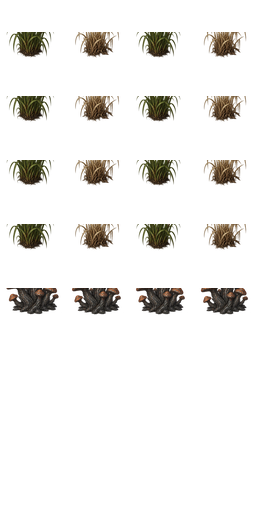
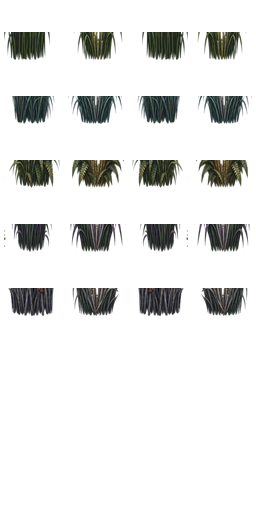
Unify door states and distinguish tall, rustled and trampled vegetation

diff --git a/tools/painted/terrain_details.py b/tools/painted/terrain_details.py
@@ -1,0 +1,95 @@
+"""Coherent door families and three vegetation states in existing atlas slots."""
+from pathlib import Path
+from functools import lru_cache
+import numpy as np
+from PIL import Image
+
+HERE=Path(__file__).resolve().parent
+REGIONS=['sewers','prison','caves','city','halls']
+
+
+@lru_cache(None)
+def sheet(name, rows):
+    image=Image.open(HERE/'sources'/name).convert('RGBA')
+    if image.getchannel('A').getextrema()[0]!=0:
+        raise ValueError(name+': transparent source required')
+    return [image.crop((round(x*image.width/4),round(y*image.height/rows),
+                        round((x+1)*image.width/4),round((y+1)*image.height/rows)))
+            for y in range(rows) for x in range(4)]
+
+
+def sized(image, size):
+    box=image.getchannel('A').point(lambda a:255 if a>=16 else 0).getbbox()
+    if box is None:raise ValueError('Empty terrain detail')
+    pixels=np.array(image.crop(box).resize(size,Image.Resampling.LANCZOS))
+    pixels[pixels[:,:,3]<8]=0
+    return Image.fromarray(pixels)
+
+
+def split(source, floor, size, foot=124):
+    whole=Image.new('RGBA',(64,128))
+    whole.paste(floor,(0,64))
+    sprite=sized(source,size)
+    whole.alpha_composite(sprite,((64-size[0])//2,foot-size[1]))
+    return whole.crop((0,64,64,128)),whole.crop((0,0,64,64))
+
+
+def patch(region, atlas, old, floor, cap, features, raised):
+    from pack import put,cell,surface_mask
+    stage=REGIONS.index(region)
+    clear=Image.new('RGBA',(64,64))
+    plants=sheet('vegetation-states.png',4)[stage*3:stage*3+3]
+    # GRASS is already the game's trampled state. Keep paving exposed beneath
+    # low clippings; HIGH_GRASS and FURROWED_GRASS retain their gameplay flags.
+    for alt in range(2):
+        source=plants[2] if alt==0 else plants[2].transpose(Image.Transpose.FLIP_LEFT_RIGHT)
+        low,_=split(source,clear,(60,20))
+        put(atlas,2+6*alt,floor)
+        put(features,132+16*stage+alt,low)
+        for state in range(2):
+            source=plants[state] if alt==0 else plants[state].transpose(Image.Transpose.FLIP_LEFT_RIGHT)
+            size=(56,92) if state==0 else (60,78)
+            low,high=split(source,clear,size)
+            put(atlas,122+state+3*alt,floor)
+            put(atlas,234+state+3*alt,high)
+            put(features,128+16*stage+2*state+alt,low)
+            front=Image.new('RGBA',(64,64))
+            front.paste(low.crop((0,32,64,64)),(0,32))
+            put(raised,stage*4+state+2*alt,front)
+            flat,_=split(source,floor,(52,52))
+            put(atlas,66+state+3*alt,flat)
+
+    doors=sheet('door-states.png',2)
+    for state in range(4):
+        low,high=split(doors[state],floor,(56,88),120)
+        put(atlas,112+state,low)
+        if state!=2:put(atlas,224+(state if state<2 else 2),high)
+        flat,_=split(doors[state],floor,(36,56),124)
+        put(atlas,56+state,flat)
+    # Side-facing doors have their leaf in the wall overlay. This cell is only
+    # the walkable threshold, including while open; never a second closed leaf.
+    put(atlas,116,floor)
+    for state,index in [(0,227),(2,228),(3,229)]:
+        box=cell(old,index).getchannel('A').getbbox()
+        tile=clear.copy()
+        if box:
+            x,y,right,bottom=box
+            tile.alpha_composite(sized(doors[4+state],(right-x,bottom-y)),(x,y))
+        put(atlas,index,tile)
+    # Side doorway wall caps keep all four upstream neighbour masks. Repaint
+    # their masonry and the changed central leaf separately, without altering
+    # the cutaway alpha contract or filling an open doorway with opaque art.
+    for index in range(208,224):
+        template=cell(old,index)
+        tile=surface_mask(template,cap)
+        if index>=212:
+            opened=np.asarray(cell(old,208+(index-208)%4))
+            pixels=np.asarray(template)
+            mask=np.any(pixels!=opened,axis=2)&(pixels[:,:,3]>0)
+            mask[:,:20]=False;mask[:,44:]=False
+            state=0 if index<216 else 2 if index<220 else 3
+            paint=clear.copy();paint.alpha_composite(sized(doors[4+state],(24,64)),(20,0))
+            mask &= np.asarray(paint)[:,:,3]>0
+            tile.paste(paint,(0,0),Image.fromarray((mask*255).astype('uint8')))
+            tile.putalpha(template.getchannel('A'))
+        put(atlas,index,tile)

diff --git a/tools/painted/pack.py b/tools/painted/pack.py
@@ -154,6 +154,8 @@ def region_atlas(region, features, raised):
     if region=='sewers':
         approved=historical(BASE,path)
         for i in APPROVED:put(atlas,i,cell(approved,i))
+    from terrain_details import patch
+    patch(region,atlas,old,floor,cap,features,raised)
     outputs={path:atlas}
     # 512 source pixels cover eight world cells. Scrolling still uses SkinnedBlock.
     water_path='environment/water'+str(['sewers','prison','caves','city','halls'].index(region))+'.png'
@@ -161,7 +163,7 @@ def region_atlas(region, features, raised):
     if region=='sewers':
         walls=atlas.copy()
         approved=historical(BASE,'environment/walls_sewers.png')
-        for i in APPROVED:put(walls,i,cell(approved,i))
+        for i in [49,53,84,85,86,87,100,101,102,103]:put(walls,i,cell(approved,i))
         outputs['environment/walls_sewers.png']=walls
     return outputs
 

diff --git a/tools/painted/README.md b/tools/painted/README.md
@@ -1,3 +1,7 @@
+# Door and vegetation continuation
+
+`terrain_details.py` assembles matching door families and three readable vegetation states from two new source sheets. `details-prompts.json` records the exact built-in prompts. The upper/lower vegetation slices share one source silhouette, and sideways door thresholds are paving rather than another leaf. Existing terrain IDs, overlays and gameplay transitions remain unchanged.
+
 # Painted presentation pass
 
 Inventory continuation: `inventory.py` replaces 202 declared atlas cells from twelve original painted sheets plus the hero armor sources, and reconstructs the test-25 reference hashes from those sources. The pinned names, IDs, art-index remaps, all 60 identification icons and all remaining item pixels stay unchanged. `items.json` and `items-prompts.json` identify each source cell. Chests/mimics, horn/chalice/rose upgrade families and coated darts stay together on their existing art; their unused source concepts remain available for the later companion pass. Waterskin cell 480 now depicts a capped leather water canteen. The packer removes alpha below 8/255 after downsampling so detached Lanczos residue cannot inflate runtime occupancy bounds; meaningful antialiasing remains. No stats or item behavior change.
@@ -10,6 +14,6 @@ Original painted material and prop source sheets are made with the built-in imag
 
 Source generation is an authored step, not a reproducible AI call. The offline atlas packer is deterministic from the committed source sheets and pinned Git templates. CI never invokes a generator, API, Blender or the rejected artgen loops. Packing consists of cropping, resizing and applying the game's existing tile silhouettes/cutouts. It does not change terrain selection or game rules.
 
-Judge the result in real lit rooms, at play scale. A colour statistic is supporting evidence, not aesthetic approval. Preserve existing title artwork, UI/talent icons, item semantics, and the approved Sewer doors and wall torches. Monster/NPC sheets, class splashes and special quest art stay intact until there is a coherent replacement with all required frames.
+Judge the result in real lit rooms, at play scale. A colour statistic is supporting evidence, not aesthetic approval. The latest review authorizes replacing the title and door artwork. Preserve UI/talent icons, item semantics and approved wall torches. Monster/NPC sheets, class splashes and special quest art stay intact until there is a coherent replacement with all required frames.
 
 Run: python tools/painted/pack.py (write) or python tools/painted/pack.py --check (verify only). Requires Pillow 12.3.0 and numpy 2.3.5. Twenty-three shipping atlases reconstruct from thirty source sheets and pinned Git layout templates. New artwork is distributed with this project under GPL-3.0-or-later. Image generation is not repeated in CI.

diff --git a/CHANGES.md b/CHANGES.md
@@ -2,6 +2,9 @@
 
 Upstream history retained; branch `grimhollow`. Each changed path is listed below.
 
+- Door/grass review: matching painted door states replace the mixed legacy door family in all five regions; sideways thresholds now contain floor rather than a duplicate closed leaf, and wall-cap masks retain their existing geometry. The new request supersedes the old approved-door lock, while wall torches stay unchanged.
+- Tall, Huntress-rustled and trampled vegetation now use distinct upright, parted and flattened silhouettes in the existing terrain, feature and foreground slots. Growth height extends into the existing upper layer; no terrain flags, drops, visibility rules or Huntress effects change.
+
 - Painted inventory continuation replaces 202 named atlas cells, including all class equipment and section-9 items, from reviewed source sheets; test 25 retains every name/ID/remap and checks the new independently packed source pixels. Chests/mimics, multi-state horns/chalices/roses and coated darts retain their complete existing families.
 - Waterskin retains ID 480 and now uses an explicitly painted capped water canteen instead of the ambiguous bag image. Item texture filtering is linear; sprite footprint targets and all item mechanics are unchanged. The packer removes sub-3% alpha residue after downsampling so invisible pixels cannot shrink the visible icon.
 
